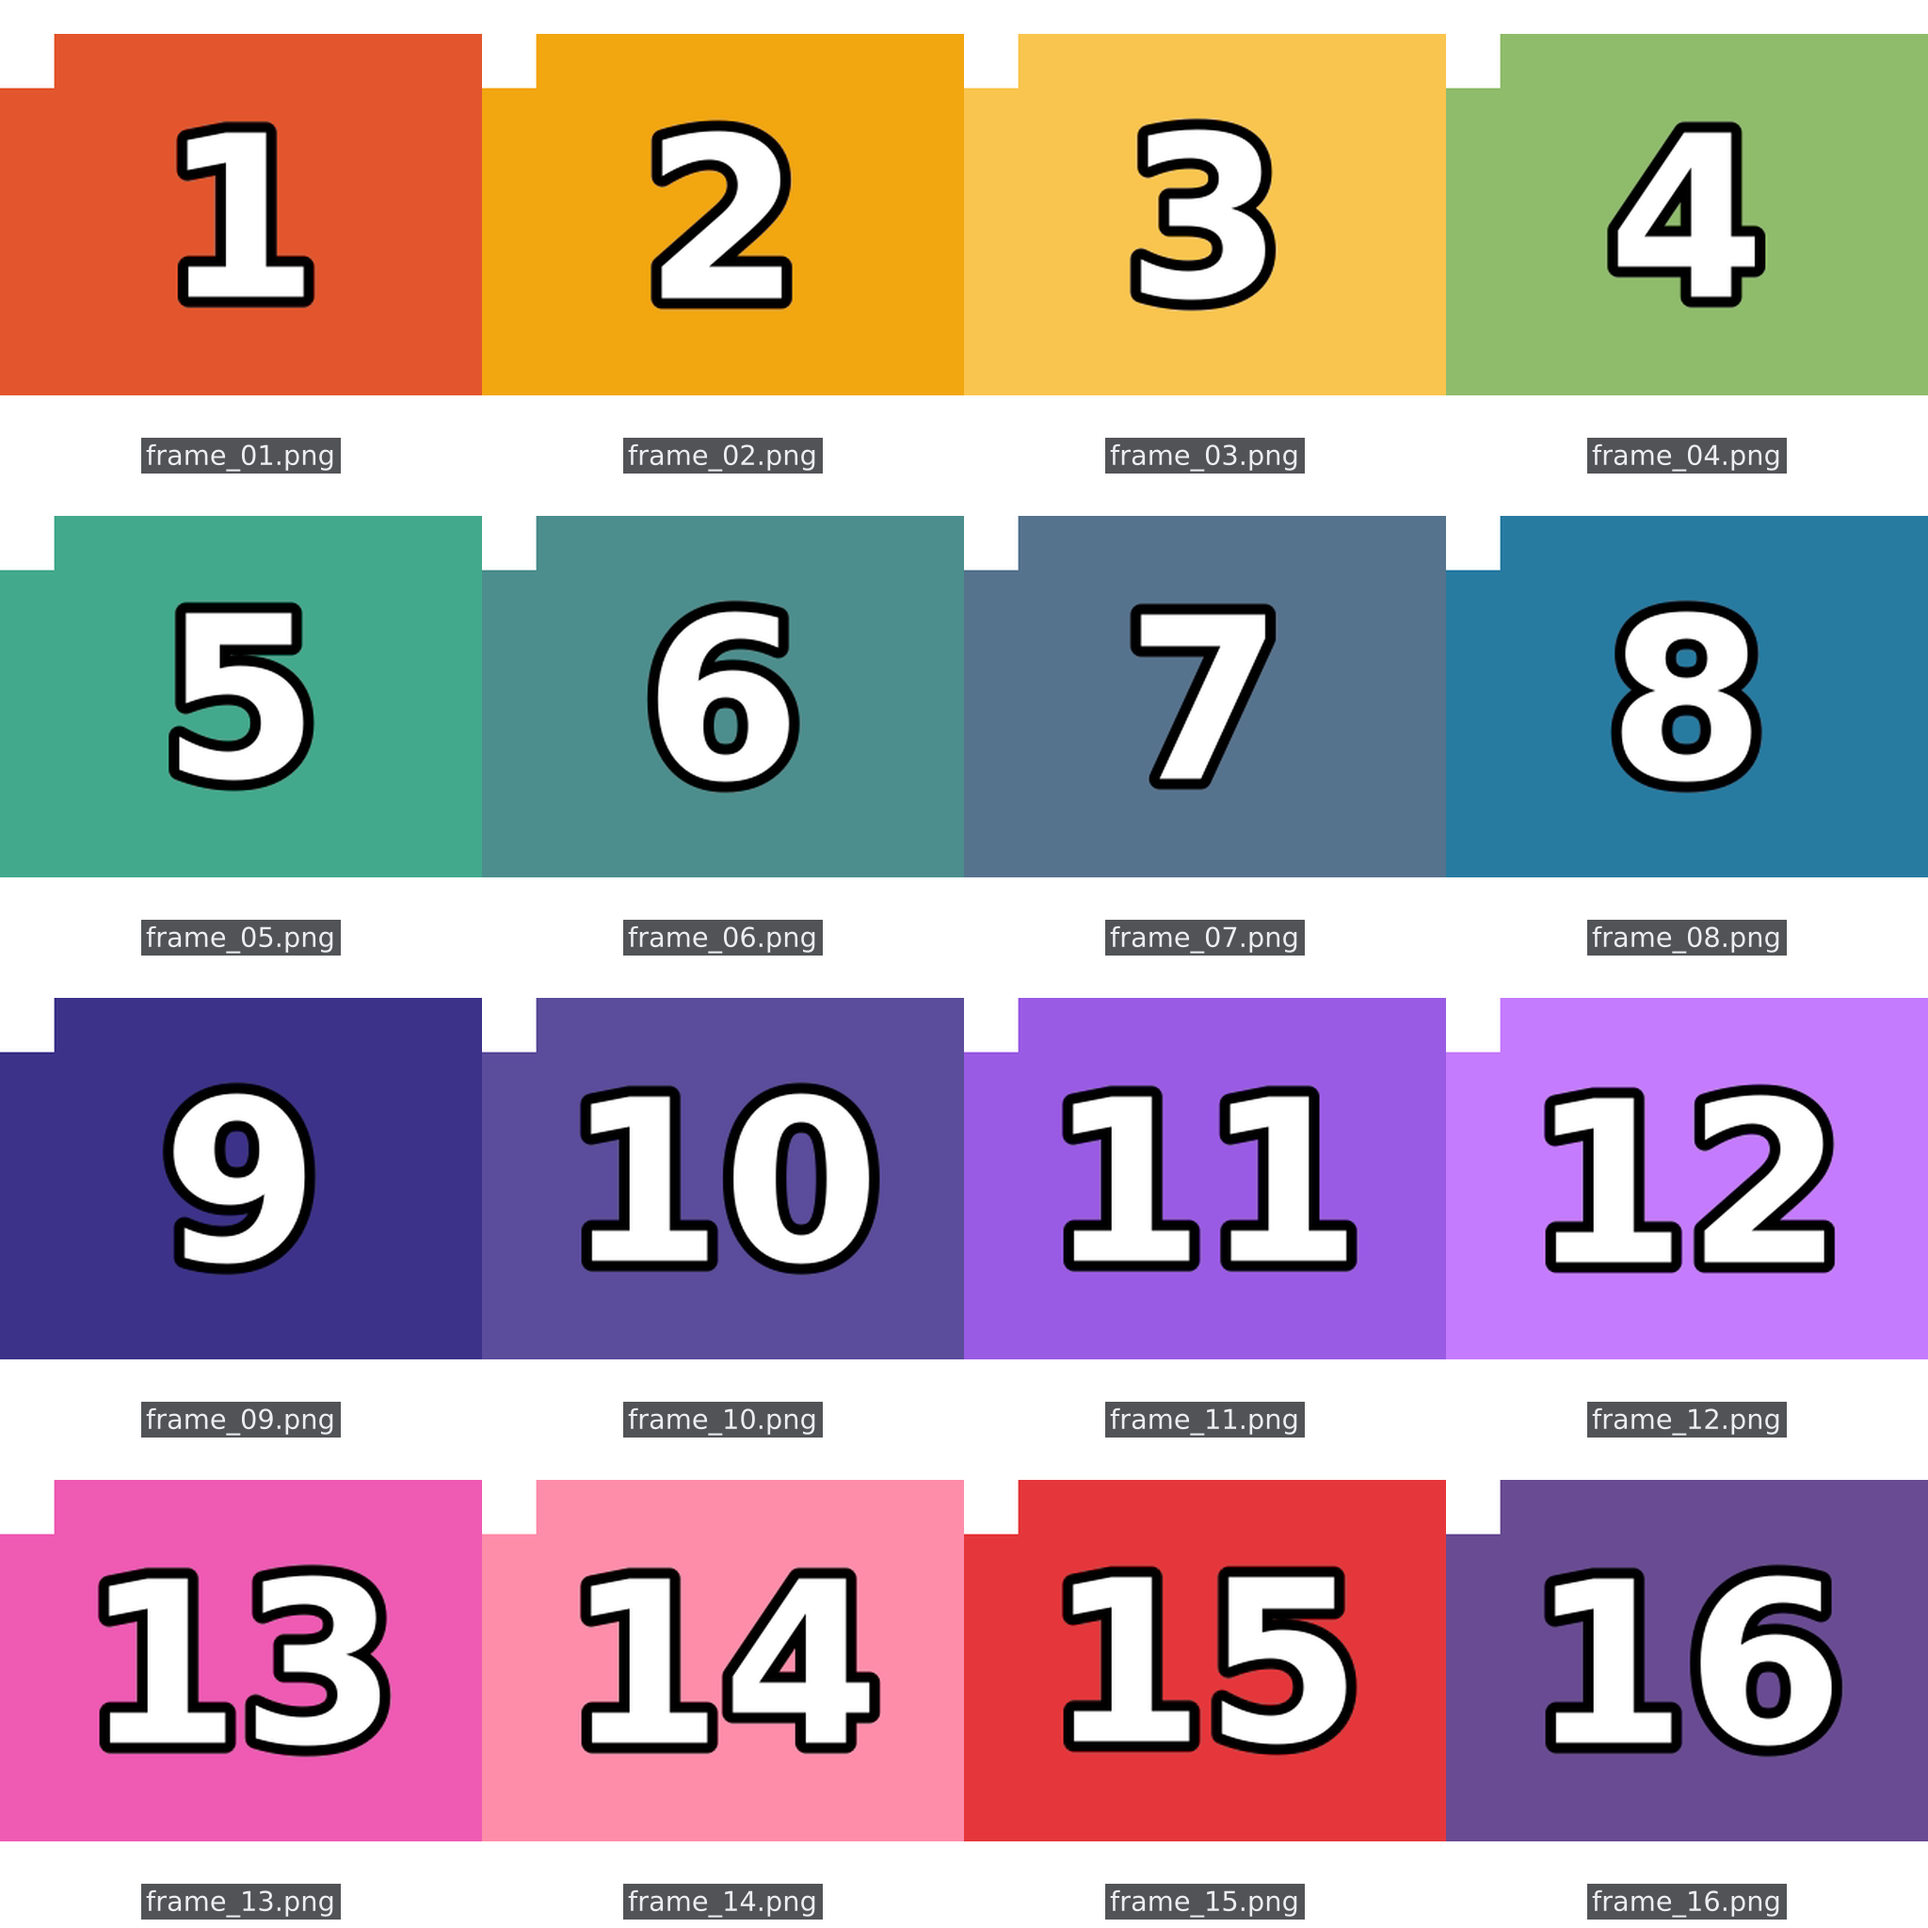
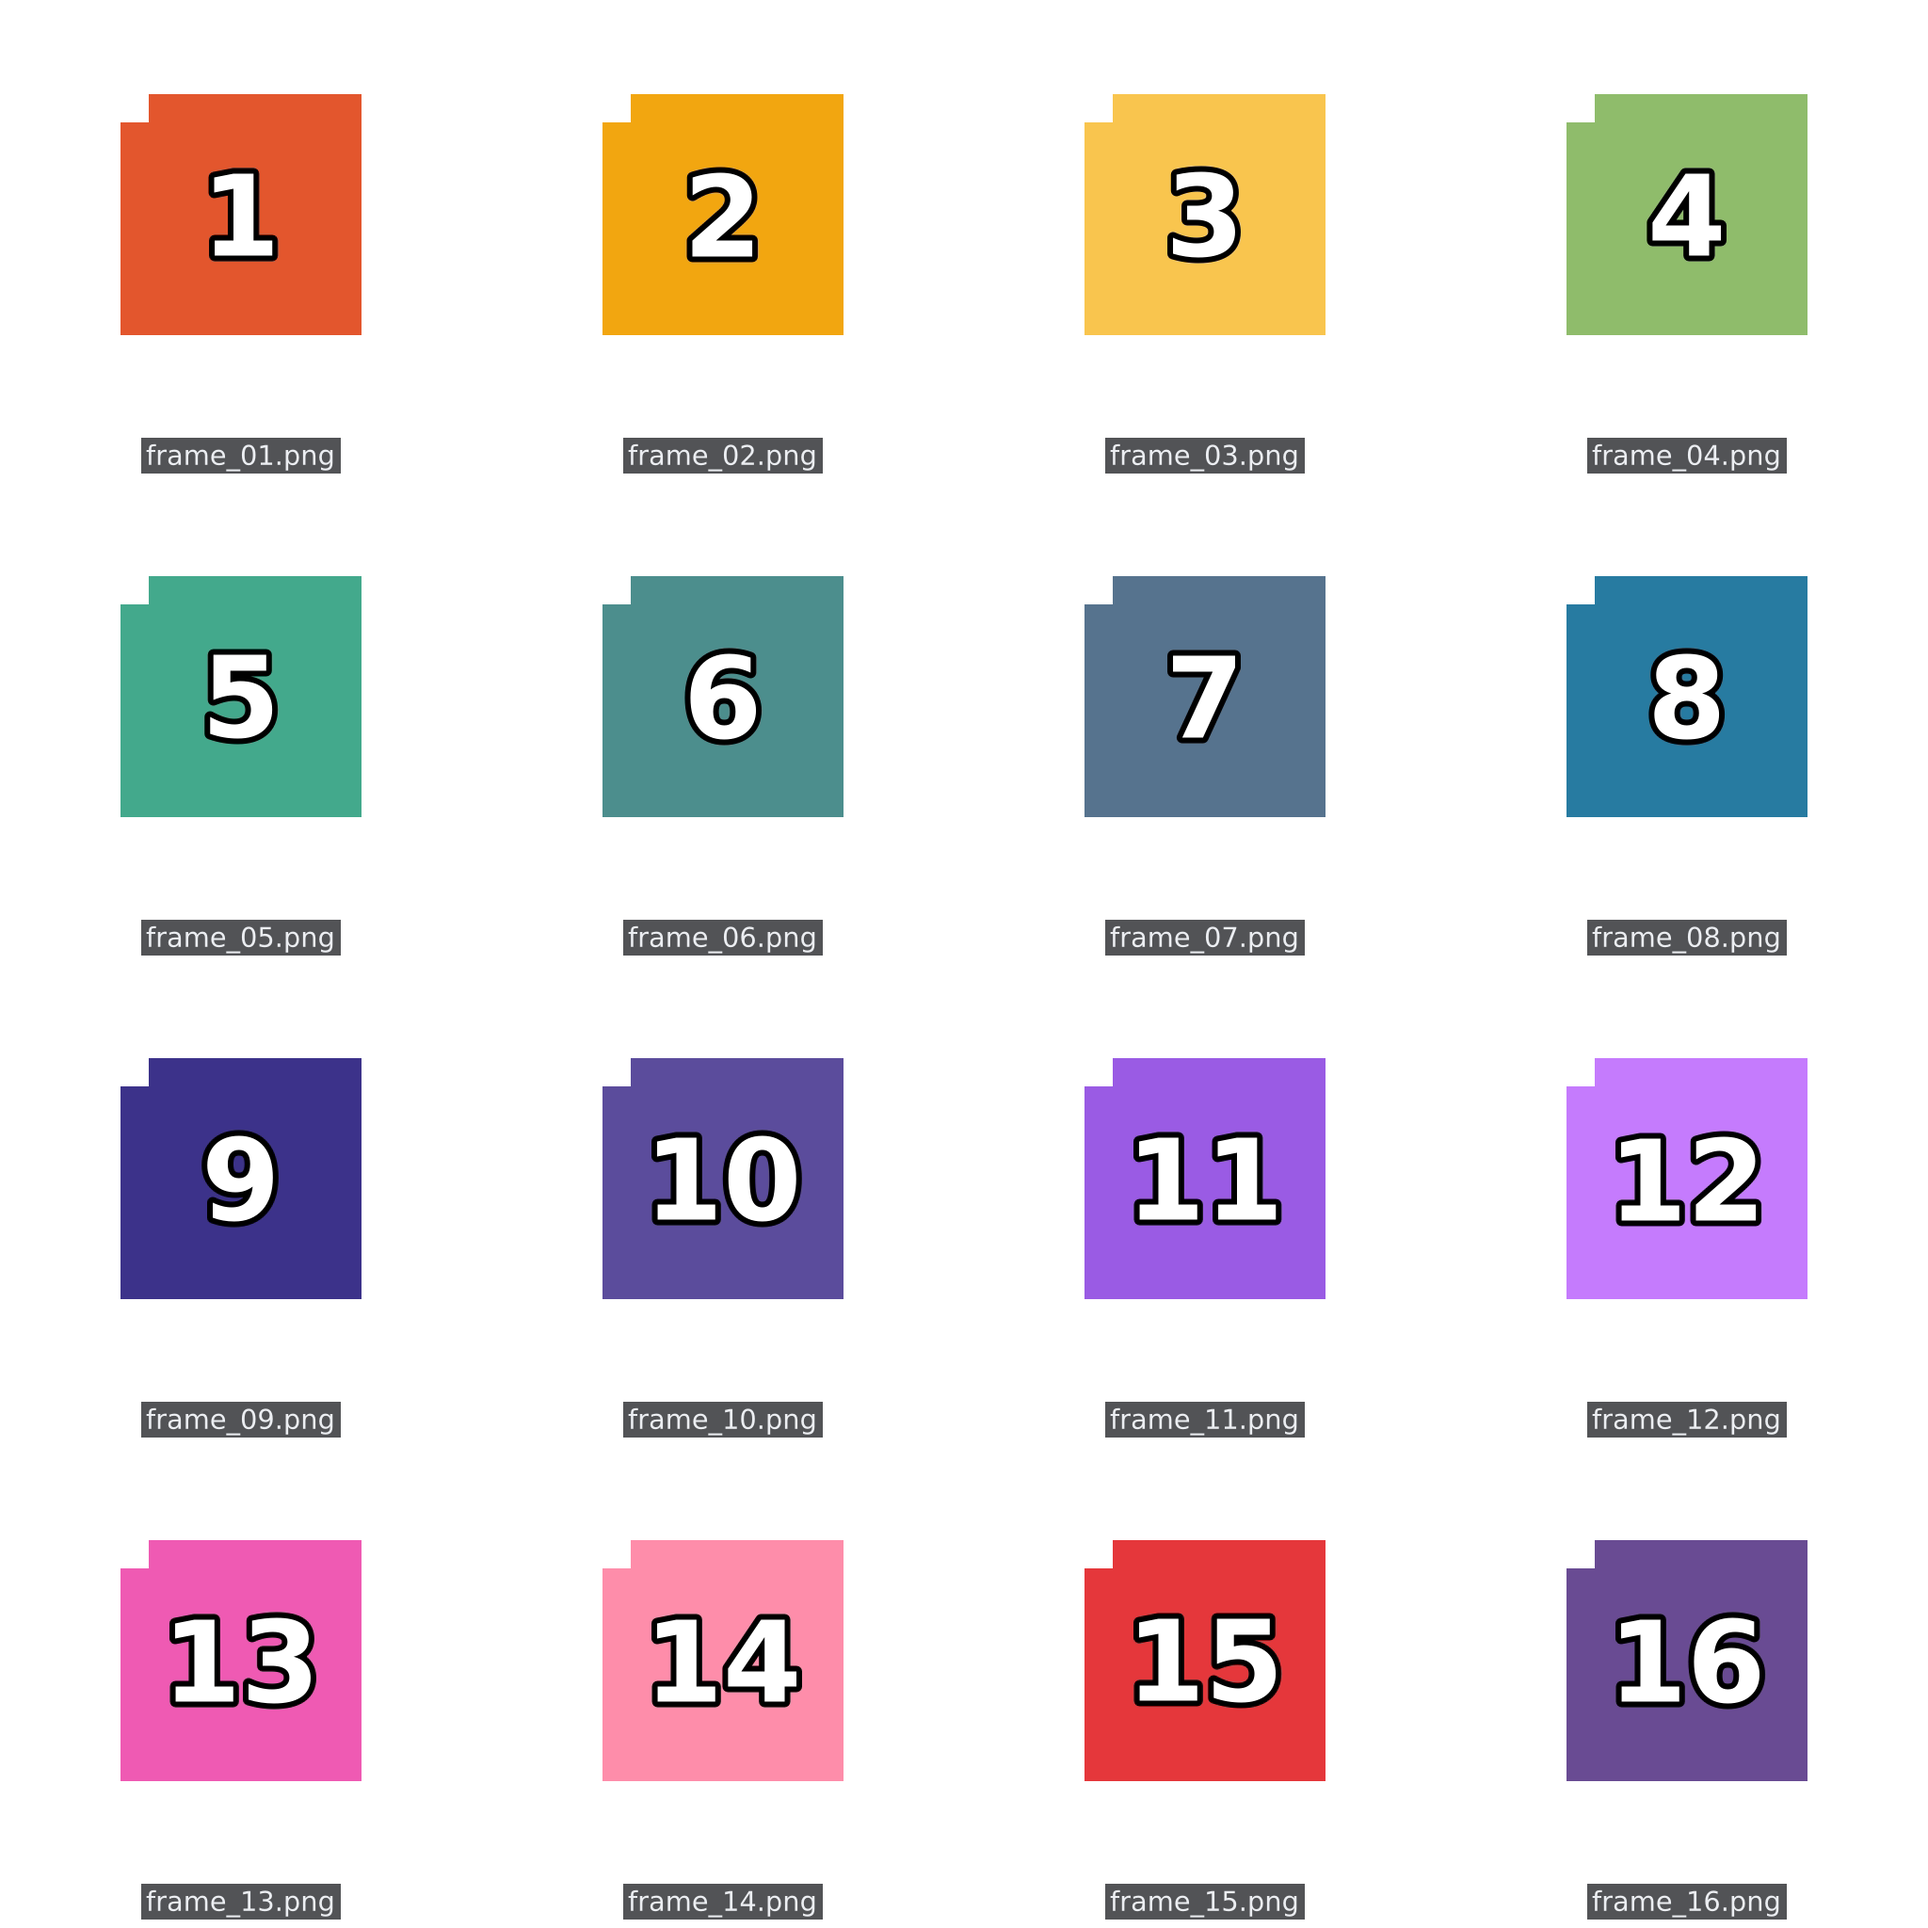
v0.2.0: edge-to-edge packing, file-name labels, power-of-two examples
- Add 'Match sheet to grid': sizes the sheet to cols/rows x frame size for a
  seamless edge-to-edge power-of-two sheet
- File-name labels with placement choice: On image (keeps edge-to-edge) or
  Beneath (contact sheets); available in all fit modes
- CLI: --labels (beneath) / --labels-on-image; GUI now honors CLI grid flags
- Examples: 1024x1024 edge-to-edge packed sheet + 2048x2048 contact sheet
- README/docs refreshed; installer metadata at 0.2.0

diff --git a/src/app.rs b/src/app.rs
@@ -24,6 +24,7 @@ pub struct SheetPackerApp {
     spacing: u32,
     fit_mode: FitMode,
     labels: bool,
+    label_below: bool,
     status: String,
     last_output: Option<PathBuf>,
     preview_tex: Option<egui::TextureHandle>,
@@ -49,6 +50,7 @@ impl Default for SheetPackerApp {
             spacing: 0,
             fit_mode: FitMode::Exact,
             labels: false,
+            label_below: true,
             status: "Drop PNG frames here, or use “Add files…” / “Import folder…”."
                 .to_owned(),
             last_output: None,
@@ -65,9 +67,19 @@ impl Default for SheetPackerApp {
 }
 
 impl SheetPackerApp {
-    /// Create the app with frames preloaded (e.g. from a CLI argument).
-    pub fn with_files(files: Vec<PathBuf>) -> Self {
+    /// Create the app with frames preloaded and grid settings applied
+    /// (e.g. from CLI arguments).
+    pub fn with_files(files: Vec<PathBuf>, cfg: GridConfig) -> Self {
         let mut app = Self::default();
+        app.cols = cfg.cols as usize;
+        app.rows = cfg.rows as usize;
+        app.sheet_w = cfg.sheet_w;
+        app.sheet_h = cfg.sheet_h;
+        app.margin = cfg.margin;
+        app.spacing = cfg.spacing;
+        app.fit_mode = cfg.fit_mode;
+        app.labels = cfg.labels;
+        app.label_below = cfg.label_below;
         app.files = files;
         app.sort_files();
         app.dirty = true;
@@ -84,7 +96,8 @@ impl SheetPackerApp {
             margin: self.margin,
             spacing: self.spacing,
             fit_mode: self.fit_mode,
-            labels: self.labels && self.fit_mode != FitMode::Letterbox,
+            labels: self.labels,
+            label_below: self.label_below,
         }
     }
 
@@ -175,6 +188,23 @@ impl SheetPackerApp {
         self.status = format!("Auto-fit grid: {}×{}", self.cols, self.rows);
     }
 
+    /// Size the sheet to the grid so same-size frames tile edge-to-edge.
+    fn fit_sheet_to_frames(&mut self) {
+        let Some(path) = self.files.first() else {
+            return;
+        };
+        let Ok((w, h)) = image::image_dimensions(path) else {
+            self.status = "Could not read frame size".to_owned();
+            return;
+        };
+        let cols = self.cols as u32;
+        let rows = self.rows as u32;
+        self.sheet_w = cols * w + self.margin * 2 + self.spacing * cols.saturating_sub(1);
+        self.sheet_h = rows * h + self.margin * 2 + self.spacing * rows.saturating_sub(1);
+        self.dirty = true;
+        self.status = format!("Sheet matched to grid: {} × {} px", self.sheet_w, self.sheet_h);
+    }
+
     /// Move a frame from index `from` to index `to`.
     fn move_file(&mut self, from: usize, to: usize) {
         if from >= self.files.len() || from == to {
@@ -256,6 +286,7 @@ impl eframe::App for SheetPackerApp {
             self.spacing,
             self.fit_mode,
             self.labels,
+            self.label_below,
         );
 
         // --- Top bar -----------------------------------------------------
@@ -420,6 +451,27 @@ impl eframe::App for SheetPackerApp {
                         ui.end_row();
                     });
 
+                ui.add_space(6.0);
+                ui.horizontal(|ui| {
+                    let enabled = !self.files.is_empty();
+                    if ui
+                        .add_enabled(enabled, egui::Button::new("Match sheet to grid"))
+                        .on_hover_text("Size the sheet so same-size frames tile edge-to-edge")
+                        .clicked()
+                    {
+                        self.fit_sheet_to_frames();
+                    }
+                    if let Some(p) = self.files.first() {
+                        if let Ok((w, h)) = image::image_dimensions(p) {
+                            ui.label(
+                                egui::RichText::new(format!("frame {w}×{h}"))
+                                    .size(11.0)
+                                    .color(MUTED),
+                            );
+                        }
+                    }
+                });
+
                 ui.add_space(14.0);
                 ui.label(egui::RichText::new("FIT").size(11.0).strong().color(MUTED));
                 ui.add_space(6.0);
@@ -433,18 +485,12 @@ impl eframe::App for SheetPackerApp {
                     });
 
                 ui.add_space(10.0);
-                let labels_ok = self.fit_mode != FitMode::Letterbox;
-                ui.add_enabled(
-                    labels_ok,
-                    egui::Checkbox::new(&mut self.labels, "File-name labels"),
-                )
-                .on_disabled_hover_text("Labels are for grid layouts — use Exact or Stretch.");
-                if labels_ok && self.labels {
-                    ui.label(
-                        egui::RichText::new("good for contact sheets")
-                            .size(11.0)
-                            .color(MUTED),
-                    );
+                ui.checkbox(&mut self.labels, "File-name labels");
+                if self.labels {
+                    ui.horizontal(|ui| {
+                        ui.selectable_value(&mut self.label_below, false, "On image");
+                        ui.selectable_value(&mut self.label_below, true, "Beneath");
+                    });
                 }
 
                 ui.add_space(14.0);
@@ -631,6 +677,7 @@ impl eframe::App for SheetPackerApp {
             self.spacing,
             self.fit_mode,
             self.labels,
+            self.label_below,
         );
         if now != snapshot {
             self.dirty = true;

diff --git a/src/packer.rs b/src/packer.rs
@@ -34,8 +34,11 @@ pub struct GridConfig {
     pub margin: u32,
     pub spacing: u32,
     pub fit_mode: FitMode,
-    /// Draw each frame's file name beneath it (contact-sheet style).
+    /// Draw each frame's file name.
     pub labels: bool,
+    /// `true` = label beneath the frame (reserves space); `false` = label
+    /// overlaid on the image (keeps edge-to-edge tiling).
+    pub label_below: bool,
 }
 
 impl Default for GridConfig {
@@ -49,6 +52,7 @@ impl Default for GridConfig {
             spacing: 0,
             fit_mode: FitMode::Exact,
             labels: false,
+            label_below: true,
         }
     }
 }
@@ -91,13 +95,19 @@ pub fn build_sheet_image(files: &[PathBuf], cfg: &GridConfig) -> Result<RgbaImag
     let mut canvas = RgbaImage::from_pixel(cfg.sheet_w, cfg.sheet_h, Rgba([0, 0, 0, 0]));
     let capacity = (cfg.cols * cfg.rows) as usize;
 
-    // When labels are on, reserve a strip at the bottom of every cell.
+    // Labels *on* the image overlay the frame (keeps the sheet a seamless
+    // edge-to-edge tiling). Labels *beneath* reserve a strip at the bottom of
+    // each cell — which, by design, is NOT edge-to-edge (e.g. contact sheets).
     let label_h = if cfg.labels {
-        (cell_h / 7).clamp(14, 56)
+        (cell_h / 8).clamp(14, 56)
     } else {
         0
     };
-    let img_h = cell_h.saturating_sub(label_h).max(1);
+    let img_h = if cfg.labels && cfg.label_below {
+        cell_h.saturating_sub(label_h).max(1)
+    } else {
+        cell_h
+    };
 
     for (index, path) in files.iter().take(capacity).enumerate() {
         let img_val = image::open(path).with_context(|| format!("opening {}", path.display()))?;
@@ -239,6 +249,7 @@ mod tests {
             spacing: 0,
             fit_mode: FitMode::Letterbox,
             labels: false,
+            label_below: false,
         };
         build_sheet(&files, &cfg, &out).unwrap();
 

diff --git a/src/main.rs b/src/main.rs
@@ -23,6 +23,7 @@ fn main() -> eframe::Result {
         spacing: 0,
         fit_mode: FitMode::Exact,
         labels: false,
+        label_below: true,
     };
 
     let mut i = 0;
@@ -80,6 +81,10 @@ fn main() -> eframe::Result {
                 i += 1;
             }
             "--labels" => cfg.labels = true,
+            "--labels-on-image" => {
+                cfg.labels = true;
+                cfg.label_below = false;
+            }
             other => collect_path(Path::new(other), &mut files),
         }
         i += 1;
@@ -122,7 +127,7 @@ fn main() -> eframe::Result {
             let app = if files.is_empty() {
                 app::SheetPackerApp::default()
             } else {
-                app::SheetPackerApp::with_files(files)
+                app::SheetPackerApp::with_files(files, cfg)
             };
             Ok(Box::new(app))
         }),

diff --git a/README.md b/README.md
@@ -17,8 +17,9 @@ paid sprite-sheet tools like TexturePacker, built in Rust with `egui`.
 - **Live preview** — see the composed sheet as you tweak settings.
 - **Drag to reorder** — reorder frames in the list; order feeds straight into the sheet.
 - **Grid layout** — columns × rows, plus final sheet **width/height**, **margin**, and **spacing**.
+- **Edge-to-edge packing** — `Match sheet to grid` sizes the sheet to the grid, so same-size frames tile **seamlessly** into a power-of-two sheet (e.g. 16× 256px frames → 1024×1024).
 - **Fit modes** — `Exact` (no scaling, default), `Letterbox` (keep aspect), or `Stretch` to fill each cell.
-- **File-name labels** — optionally stamp each frame's file name beneath it — ideal for **contact sheets**.
+- **File-name labels** — stamp each frame's file name, either **on** the image or **beneath** it (great for contact sheets).
 - **Flipbook playback** — play the frames back at a chosen FPS to preview the motion.
 - **Natural sort** — `frame_2.png` comes before `frame_10.png` automatically.
 - **Overflow handling** — warns when frames exceed the grid and offers a one-click **Auto-fit grid**.
@@ -69,20 +70,21 @@ sheetpacker ./frames --out sheet.png --cols 4 --rows 4 --size 2048x2048 --fit ex
 ```
 
 Options: `--out <file>`, `--cols N`, `--rows N`, `--size WxH`, `--margin N`,
-`--spacing N`, `--fit exact|letterbox|stretch`, `--labels`.
+`--spacing N`, `--fit exact|letterbox|stretch`, `--labels` (file names beneath),
+`--labels-on-image` (file names overlaid).
+
+For an edge-to-edge power-of-two sheet, set `--size` to *cols × frame width* by
+*rows × frame height* (or just use the **Match sheet to grid** button in the GUI).
 
 ## Example output
 
-16 frames packed into a 4×4 sheet with **Exact** fit (the default — frames at
-native size, no scaling):
+**Packed sheet (the main use):** sixteen 256×256 frames tiled **edge-to-edge**
+into a **1024×1024** (power-of-two) sheet — one click with *Match sheet to grid*:
 
 ![Example sheet](docs/example-sheet.png)
 
-The same sheet with **file-name labels** enabled — ideal for contact sheets:
-
-![Example with labels](docs/example-labels.png)
-
-And with **Letterbox** fit + labels, a classic thumbnail contact sheet:
+**Contact sheet:** gapped thumbnails with **file-name labels** beneath each
+frame (2048×2048):
 
 ![Contact sheet](docs/example-contact-sheet.png)
 
